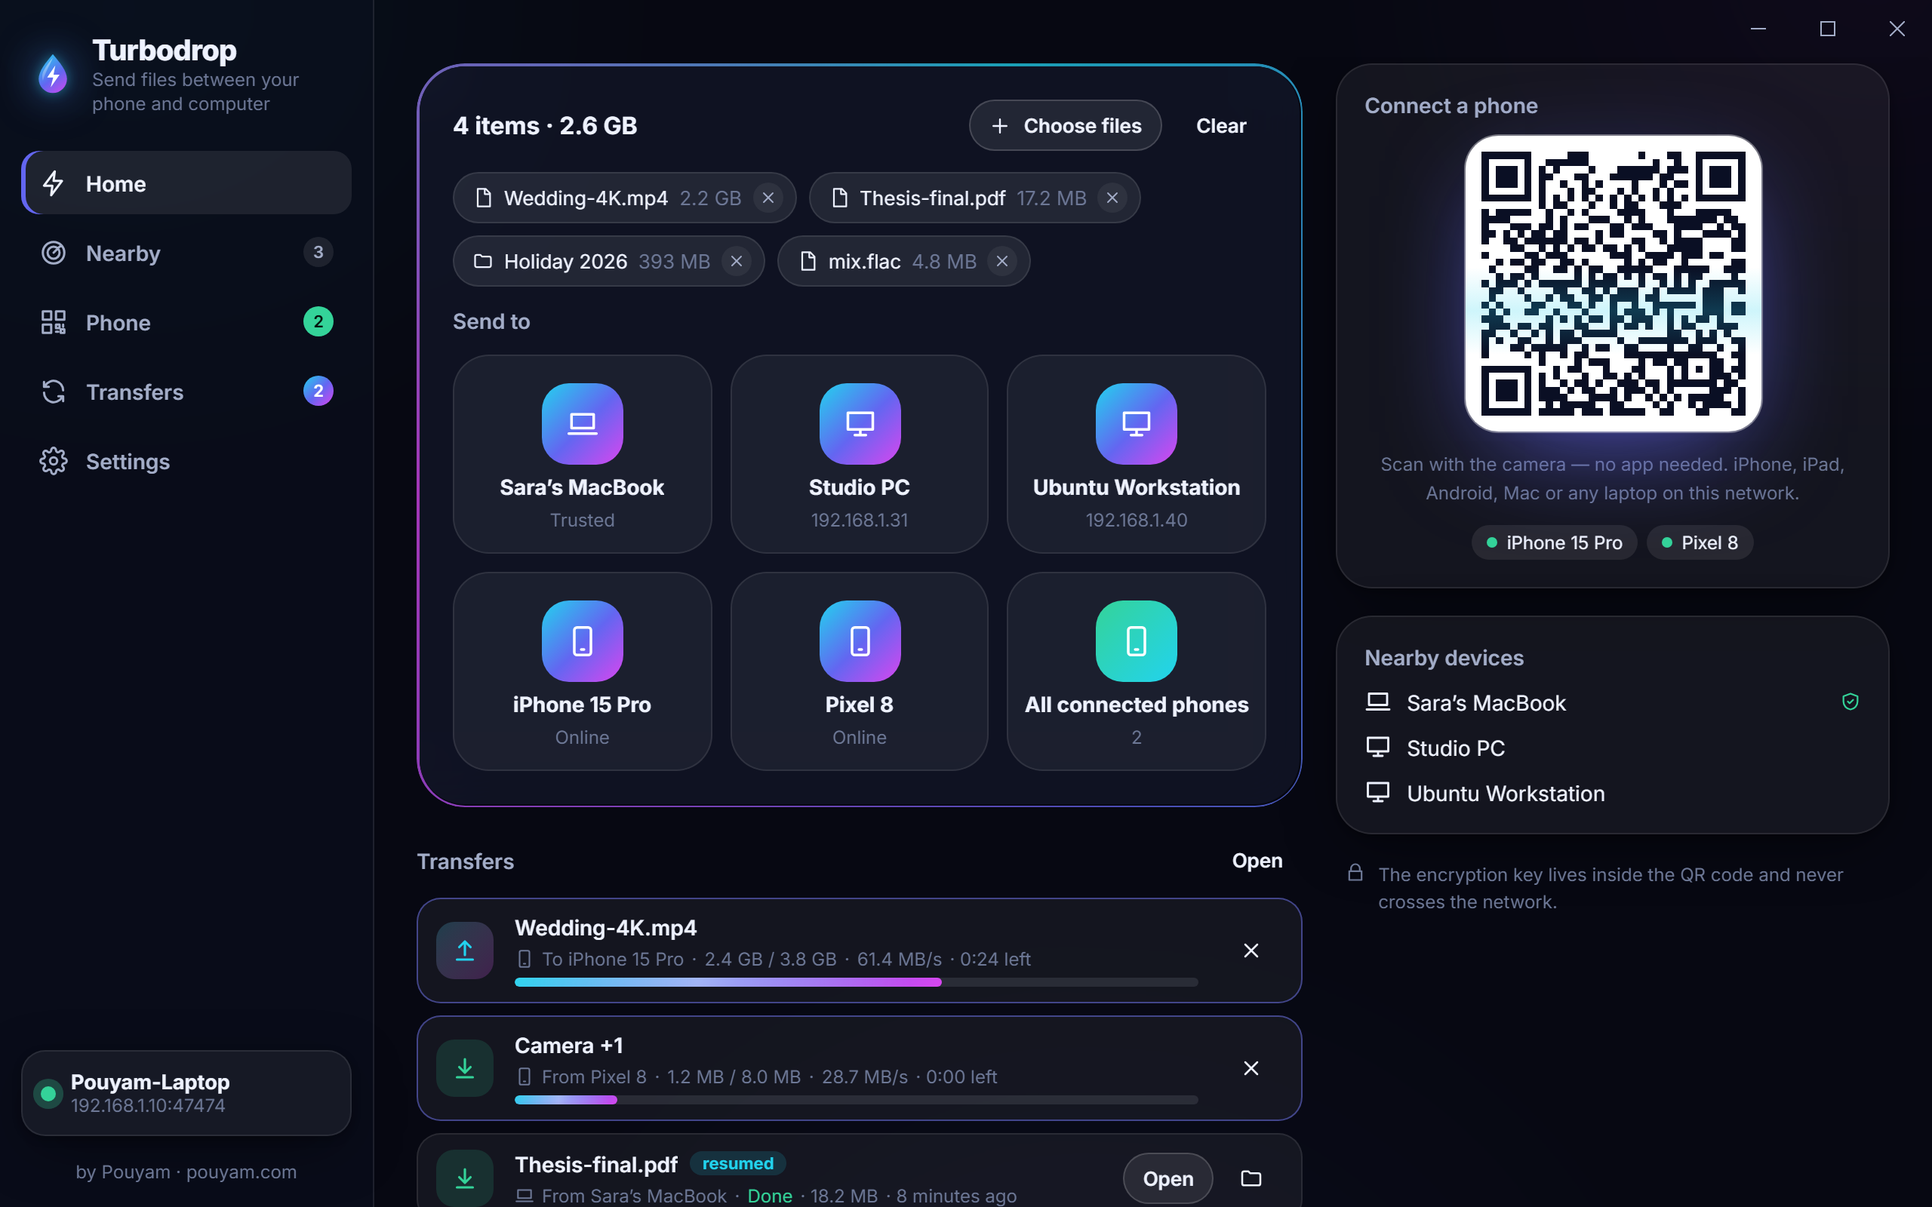
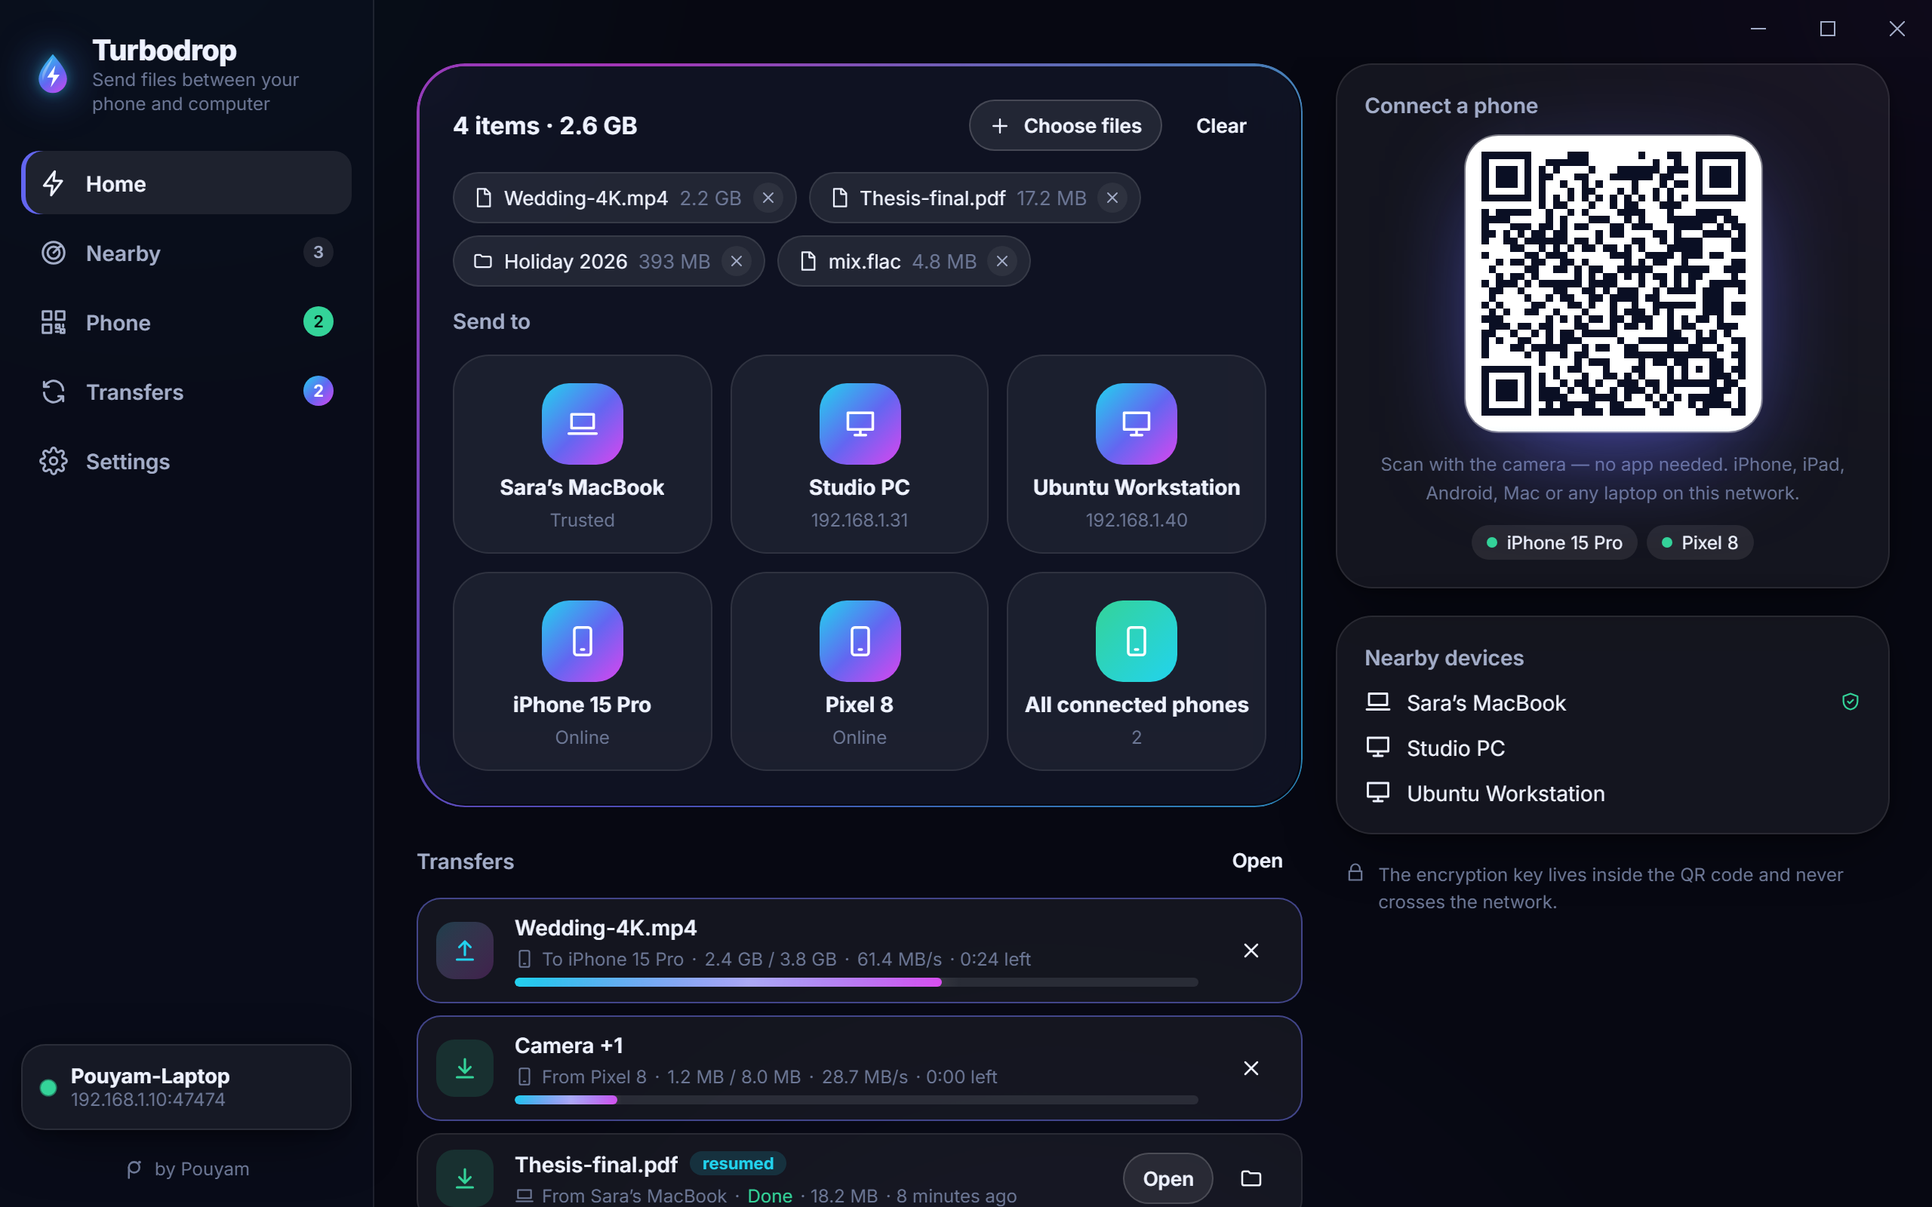
0.1.1: quiet Pouyam credit with a new Pouyam mark (#5)
* Subtle Pouyam credit: new Pouyam mark in the app, phone page, website and README

* Release 0.1.1: version bump, changelog, refreshed screenshots

---------

Changed region(s): [[0.75, 0.2188, 0.9375, 0.2812], [0.0, 0.875, 0.125, 0.9375], [0.0625, 0.9688, 0.125, 1.0]]

diff --git a/shared/i18n/more.ts b/shared/i18n/more.ts
@@ -7,6 +7,8 @@ export const more: Record<string, Dict> = {
     'app.name': 'Turbodrop',
     'app.tagline': 'انقل الملفات بين هاتفك وحاسوبك',
     'app.by': 'من تطوير Pouyam',
+    'brand.about': 'طوّر فريق Pouyam تطبيق Turbodrop، وهو الفريق الذي يقف وراء pouyam.com: عالم اجتماعي من الألعاب والأخبار وصنّاع المحتوى.',
+    'brand.visit': 'زُر Pouyam',
 
     'conn.connecting': 'جارٍ الاتصال…',
     'conn.connected': 'متصل بـ {name}',
@@ -172,6 +174,8 @@ export const more: Record<string, Dict> = {
     'app.name': 'Turbodrop',
     'app.tagline': 'Telefon ile bilgisayar arasında dosya gönderin',
     'app.by': 'Pouyam tarafından',
+    'brand.about': 'Turbodrop, pouyam.com’un arkasındaki ekip olan Pouyam tarafından geliştirildi: oyunlar, haberler ve içerik üreticileriyle dolu sosyal bir dünya.',
+    'brand.visit': 'Pouyam’ı ziyaret et',
 
     'conn.connecting': 'Bağlanıyor…',
     'conn.connected': '{name} cihazına bağlandı',
@@ -337,6 +341,8 @@ export const more: Record<string, Dict> = {
     'app.name': 'Turbodrop',
     'app.tagline': 'Envía archivos entre tu teléfono y tu computadora',
     'app.by': 'de Pouyam',
+    'brand.about': 'Turbodrop lo hace Pouyam, el equipo detrás de pouyam.com: un mundo social de juegos, noticias y creadores.',
+    'brand.visit': 'Visitar Pouyam',
 
     'conn.connecting': 'Conectando…',
     'conn.connected': 'Conectado a {name}',
@@ -502,6 +508,8 @@ export const more: Record<string, Dict> = {
     'app.name': 'Turbodrop',
     'app.tagline': 'Envoyez des fichiers entre votre téléphone et votre ordinateur',
     'app.by': 'par Pouyam',
+    'brand.about': 'Turbodrop est créé par Pouyam, l’équipe derrière pouyam.com : un univers social de jeux, d’actualités et de créateurs.',
+    'brand.visit': 'Découvrir Pouyam',
 
     'conn.connecting': 'Connexion…',
     'conn.connected': 'Connecté à {name}',
@@ -667,6 +675,8 @@ export const more: Record<string, Dict> = {
     'app.name': 'Turbodrop',
     'app.tagline': 'Dateien zwischen Handy und Computer senden',
     'app.by': 'von Pouyam',
+    'brand.about': 'Turbodrop wird von Pouyam entwickelt, dem Team hinter pouyam.com – einer sozialen Welt aus Spielen, News und Creators.',
+    'brand.visit': 'Pouyam besuchen',
 
     'conn.connecting': 'Verbinden…',
     'conn.connected': 'Verbunden mit {name}',
@@ -832,6 +842,8 @@ export const more: Record<string, Dict> = {
     'app.name': 'Turbodrop',
     'app.tagline': 'Envie arquivos entre o celular e o computador',
     'app.by': 'por Pouyam',
+    'brand.about': 'O Turbodrop é feito pela Pouyam, a equipe por trás do pouyam.com: um mundo social de jogos, notícias e criadores.',
+    'brand.visit': 'Conhecer a Pouyam',
 
     'conn.connecting': 'Conectando…',
     'conn.connected': 'Conectado a {name}',
@@ -997,6 +1009,8 @@ export const more: Record<string, Dict> = {
     'app.name': 'Turbodrop',
     'app.tagline': 'Передача файлов между телефоном и компьютером',
     'app.by': 'от Pouyam',
+    'brand.about': 'Turbodrop создаёт Pouyam — команда pouyam.com, социального мира игр, новостей и авторов.',
+    'brand.visit': 'Перейти на Pouyam',
 
     'conn.connecting': 'Подключение…',
     'conn.connected': 'Подключено к {name}',
@@ -1162,6 +1176,8 @@ export const more: Record<string, Dict> = {
     'app.name': 'Turbodrop',
     'app.tagline': 'फ़ोन और कंप्यूटर के बीच फ़ाइलें भेजें',
     'app.by': 'Pouyam द्वारा',
+    'brand.about': 'Turbodrop को Pouyam ने बनाया है — pouyam.com के पीछे की टीम, गेम, ख़बरों और क्रिएटर्स की एक सोशल दुनिया।',
+    'brand.visit': 'Pouyam देखें',
 
     'conn.connecting': 'कनेक्ट हो रहा है…',
     'conn.connected': '{name} से कनेक्टेड',
@@ -1327,6 +1343,8 @@ export const more: Record<string, Dict> = {
     'app.name': 'Turbodrop',
     'app.tagline': '在手机和电脑之间互传文件',
     'app.by': 'Pouyam 出品',
+    'brand.about': 'Turbodrop 由 Pouyam 打造——pouyam.com 背后的团队，一个汇聚游戏、新闻与创作者的社交世界。',
+    'brand.visit': '访问 Pouyam',
 
     'conn.connecting': '正在连接…',
     'conn.connected': '已连接到 {name}',
@@ -1492,6 +1510,8 @@ export const more: Record<string, Dict> = {
     'app.name': 'Turbodrop',
     'app.tagline': 'スマホとパソコンの間でファイルを送る',
     'app.by': 'Pouyam が開発',
+    'brand.about': 'Turbodrop は pouyam.com を運営する Pouyam チームが開発しています。ゲーム、ニュース、クリエイターが集まるソーシャルな世界です。',
+    'brand.visit': 'Pouyam を見る',
 
     'conn.connecting': '接続中…',
     'conn.connected': '{name} に接続しました',

diff --git a/scripts/shots/tauri-mock.js b/scripts/shots/tauri-mock.js
@@ -9,9 +9,9 @@
   const fa = lang === 'fa';
 
   const peers = [
-    { device: { id: 'mac', name: fa ? 'مکبوکِ سارا' : 'Sara’s MacBook', platform: 'macos', version: '0.1.0', port: 47474, publicKey: 'k1', fingerprint: '4A12-5D65-BC56-B6E4' }, address: '192.168.1.24', lastSeen: now, source: 'lan', trusted: true, verification: '🌵 🍄 🦉 🎧', keyChanged: false },
-    { device: { id: 'pc', name: fa ? 'کامپیوتر اتاق کار' : 'Studio PC', platform: 'windows', version: '0.1.0', port: 47474, publicKey: 'k2', fingerprint: '9C01-77AE-11B2-0F3D' }, address: '192.168.1.31', lastSeen: now, source: 'lan', trusted: false, verification: '🚀 🍉 🐳 ⚡', keyChanged: false },
-    { device: { id: 'linux', name: 'Ubuntu Workstation', platform: 'linux', version: '0.1.0', port: 47474, publicKey: 'k3', fingerprint: '2B7C-0A44-9E10-CC51' }, address: '192.168.1.40', lastSeen: now, source: 'lan', trusted: false, verification: '🦊 🌈 🎯 🍋', keyChanged: false },
+    { device: { id: 'mac', name: fa ? 'مکبوکِ سارا' : 'Sara’s MacBook', platform: 'macos', version: '0.1.1', port: 47474, publicKey: 'k1', fingerprint: '4A12-5D65-BC56-B6E4' }, address: '192.168.1.24', lastSeen: now, source: 'lan', trusted: true, verification: '🌵 🍄 🦉 🎧', keyChanged: false },
+    { device: { id: 'pc', name: fa ? 'کامپیوتر اتاق کار' : 'Studio PC', platform: 'windows', version: '0.1.1', port: 47474, publicKey: 'k2', fingerprint: '9C01-77AE-11B2-0F3D' }, address: '192.168.1.31', lastSeen: now, source: 'lan', trusted: false, verification: '🚀 🍉 🐳 ⚡', keyChanged: false },
+    { device: { id: 'linux', name: 'Ubuntu Workstation', platform: 'linux', version: '0.1.1', port: 47474, publicKey: 'k3', fingerprint: '2B7C-0A44-9E10-CC51' }, address: '192.168.1.40', lastSeen: now, source: 'lan', trusted: false, verification: '🦊 🌈 🎯 🍋', keyChanged: false },
   ];
   const clients = [
     { id: 'iphone', name: 'iPhone 15 Pro', platform: 'ios', online: true, lastSeen: now },
@@ -28,7 +28,7 @@
     { id: 't6', direction: 'out', kind: 'device', peerId: 'linux', peerName: 'Ubuntu Workstation', peerPlatform: 'linux', status: 'done', files: [f('e', 'turbodrop-src.zip', 212 * MB, 212 * MB, 'done')], totalBytes: 212 * MB, doneBytes: 212 * MB, speed: 0, startedAt: now - 26 * 3600e3, finishedAt: now - 26 * 3600e3 },
   ];
   const snapshot = {
-    info: { id: 'me', name: fa ? 'لپتاپ پویام' : 'Pouyam-Laptop', platform: 'windows', version: '0.1.0', port: 47474, publicKey: 'me', fingerprint: '7E3A-91C4-55D0-A2F8' },
+    info: { id: 'me', name: fa ? 'لپتاپ پویام' : 'Pouyam-Laptop', platform: 'windows', version: '0.1.1', port: 47474, publicKey: 'me', fingerprint: '7E3A-91C4-55D0-A2F8' },
     settings: { deviceName: fa ? 'لپتاپ پویام' : 'Pouyam-Laptop', downloadDir: 'C:\\Users\\you\\Downloads\\Turbodrop', requireApproval: true, askBrowsers: false },
     app: { theme, lang, accent: q.get('accent') || 'aurora', autostart: true, tray: true, contextMenu: true, notifications: true, keepAwake: true },
     invite: { port: 47474, urls: [{ label: 'Wi-Fi', ip: '192.168.1.10', url: 'http://192.168.1.10:47474/#Qm3x9KpLw2Ta.7Hk2Jq9VrX4bN8sYc1LpE0wZ5uF3dGiAoT6mRyKxQe' }, { label: 'Ethernet', ip: '10.0.0.5', url: 'http://10.0.0.5:47474/#Qm3x9KpLw2Ta.7Hk2Jq9VrX4bN8sYc1LpE0wZ5uF3dGiAoT6mRyKxQe' }] },

diff --git a/apps/desktop/src/views/Settings.svelte b/apps/desktop/src/views/Settings.svelte
@@ -2,6 +2,7 @@
   import { open } from '@tauri-apps/plugin-dialog';
   import { LANGUAGES, type Lang } from '../../../../shared/i18n';
   import Icon from '../../../../shared/ui/Icon.svelte';
+  import PouyamMark from '../../../../shared/ui/PouyamMark.svelte';
   import { t } from '../lib/i18n';
   import { ACCENTS, store, type AppSettings, type Settings } from '../lib/store.svelte';
 
@@ -112,7 +113,11 @@
       <div class="ab"><b class="grad-text">Turbodrop</b><span class="tiny">{t('set.version', { v: store.info?.version ?? '' })}</span></div>
       <div class="links">
         <button class="btn btn-sm" onclick={() => store.openUrl('https://github.com/pouyamsmartcity/turbodrop')}><Icon name="github" size={15} />{t('set.github')}</button>
-        <button class="btn btn-sm btn-ghost" onclick={() => store.openUrl('https://www.pouyam.com')}><Icon name="star" size={15} />{t('app.by')}</button>
+      </div>
+      <div class="maker">
+        <PouyamMark size={30} color="#c9b27c" />
+        <p>{t('brand.about')}</p>
+        <button class="btn btn-sm" onclick={() => store.openUrl('https://www.pouyam.com/?utm_source=turbodrop&utm_medium=app-about')}>{t('brand.visit')}</button>
       </div>
     </section>
   </div>
@@ -285,6 +290,23 @@
   .links {
     display: flex;
     gap: 8px;
+  }
+  .maker {
+    display: flex;
+    align-items: center;
+    gap: 14px;
+    margin-top: 4px;
+    padding: 14px;
+    border-radius: var(--r);
+    border: 1px solid color-mix(in oklab, #c9b27c 28%, var(--border));
+    background: color-mix(in oklab, #c9b27c 6%, transparent);
+  }
+  .maker p {
+    flex: 1;
+    margin: 0;
+    font-size: 13px;
+    line-height: 1.6;
+    color: var(--text-2);
   }
   @media (max-width: 1000px) {
     .cols {

diff --git a/web/src/App.svelte b/web/src/App.svelte
@@ -3,6 +3,7 @@
   import { LANGUAGES, type Lang } from '../../shared/i18n';
   import Icon from '../../shared/ui/Icon.svelte';
   import Logo from '../../shared/ui/Logo.svelte';
+  import PouyamMark from '../../shared/ui/PouyamMark.svelte';
   import ConnectScreen from './components/ConnectScreen.svelte';
   import IncomingCard from './components/IncomingCard.svelte';
   import OutgoingCard from './components/OutgoingCard.svelte';
@@ -172,7 +173,8 @@
           <button class="link" onclick={() => ((nameDraft = app.name), (editingName = true))}>{app.name}</button>
         {/if}
       </div>
-      <div class="tiny secure"><Icon name="shield" size={14} /> {t('footer.secure')} · <a href="https://www.pouyam.com" target="_blank" rel="noopener">{t('app.by')}</a></div>
+      <div class="tiny secure"><Icon name="shield" size={14} /> {t('footer.secure')}</div>
+      <a class="maker" href="https://www.pouyam.com/?utm_source=turbodrop&utm_medium=phone" target="_blank" rel="noopener"><PouyamMark size={14} /><span>{t('app.by')}</span></a>
     </footer>
   {/if}
 </div>
@@ -406,8 +408,18 @@
     align-items: center;
     gap: 6px;
   }
-  .secure a {
-    color: var(--text-2);
+  .maker {
+    display: inline-flex;
+    align-items: center;
+    gap: 6px;
+    font-size: 12px;
+    color: var(--text-3);
+    text-decoration: none;
+    transition: color 0.25s;
+  }
+  .maker:hover,
+  .maker:active {
+    color: #c9b27c;
   }
   .dropzone {
     position: fixed;

diff --git a/apps/desktop/src/App.svelte b/apps/desktop/src/App.svelte
@@ -5,6 +5,7 @@
   import { onMount } from 'svelte';
   import Icon, { type IconName } from '../../../shared/ui/Icon.svelte';
   import Logo from '../../../shared/ui/Logo.svelte';
+  import PouyamMark from '../../../shared/ui/PouyamMark.svelte';
   import RequestModal from './components/RequestModal.svelte';
   import Toasts from './components/Toasts.svelte';
   import { num, t } from './lib/i18n';
@@ -107,8 +108,8 @@
         <span class="tiny ltr">{store.invite[0]?.ip ?? ''}{store.info ? `:${store.info.port}` : ''}</span>
       </div>
     </div>
-    <button class="by" onclick={() => store.openUrl('https://www.pouyam.com')}>
-      {t('app.by')} · pouyam.com
+    <button class="by" title="pouyam.com" onclick={() => store.openUrl('https://www.pouyam.com/?utm_source=turbodrop&utm_medium=app')}>
+      <PouyamMark size={14} /><span>{t('app.by')}</span>
     </button>
   </aside>
 
@@ -277,14 +278,19 @@
     }
   }
   .by {
+    display: inline-flex;
+    align-items: center;
+    justify-content: center;
+    gap: 7px;
     background: none;
     border: 0;
     color: var(--text-3);
     font-size: 12px;
-    padding: 2px;
+    padding: 4px;
+    transition: color 0.25s;
   }
   .by:hover {
-    color: var(--text);
+    color: #c9b27c;
   }
   main {
     display: flex;

diff --git a/site/style.css b/site/style.css
@@ -510,3 +510,41 @@ footer {
   padding: 0 16px;
   font-size: 14px;
 }
+
+.maker {
+  display: inline-flex;
+  align-items: center;
+  gap: 7px;
+  font-size: 13px;
+  font-weight: 500;
+  color: var(--text-2);
+  text-decoration: none;
+  transition: color 0.25s;
+}
+.maker:hover {
+  color: #c9b27c;
+}
+.maker .pm {
+  color: #c9b27c;
+  flex: none;
+}
+footer .pouyam {
+  margin: 0 auto 14px;
+  max-width: 560px;
+}
+footer .pouyam .maker {
+  font-size: 14px;
+  line-height: 1.6;
+  align-items: flex-start;
+  text-align: start;
+}
+footer .pouyam .pm {
+  width: 22px;
+  height: 22px;
+  margin-top: 1px;
+}
+@media (max-width: 900px) {
+  .top .maker span {
+    display: none;
+  }
+}

diff --git a/shared/ui/PouyamMark.svelte b/shared/ui/PouyamMark.svelte
@@ -1,0 +1,27 @@
+<script lang="ts">
+  // The Pouyam mark: a "p" with a satellite — small, quiet, gold on hover where the parent wants it.
+  let { size = 16, color = 'currentColor' }: { size?: number; color?: string } = $props();
+</script>
+
+<svg
+  width={size}
+  height={size}
+  viewBox="0 0 32 32"
+  fill="none"
+  stroke={color}
+  stroke-width={size > 20 ? 2.6 : 2.9}
+  stroke-linecap="round"
+  aria-hidden="true"
+>
+  <path d="M10 13v16" />
+  <circle cx="18" cy="13" r="8" />
+  <circle cx="26.2" cy="5.2" r="2.2" fill={color} stroke="none" />
+</svg>
+
+<style>
+  svg {
+    display: inline-block;
+    flex: none;
+    vertical-align: middle;
+  }
+</style>

diff --git a/shared/i18n/fa.ts b/shared/i18n/fa.ts
@@ -5,6 +5,8 @@ export const fa: Dict = {
   'app.name': 'توربودراپ',
   'app.tagline': 'جابهجایی فایل بین گوشی و کامپیوتر',
   'app.by': 'ساخت پویام',
+  'brand.about': 'توربودراپ را تیم پویام ساخته؛ همان تیمِ pouyam.com، دنیایی از بازی، خبر و شبکهٔ اجتماعی.',
+  'brand.visit': 'سری به پویام بزنید',
 
   'conn.connecting': 'در حال اتصال…',
   'conn.connected': 'وصل به {name}',

diff --git a/shared/i18n/en.ts b/shared/i18n/en.ts
@@ -3,6 +3,8 @@ export const en = {
   'app.name': 'Turbodrop',
   'app.tagline': 'Send files between your phone and computer',
   'app.by': 'by Pouyam',
+  'brand.about': 'Turbodrop is made by Pouyam, the team behind pouyam.com — a social world of games, news and creators.',
+  'brand.visit': 'Visit Pouyam',
 
   'conn.connecting': 'Connecting…',
   'conn.connected': 'Connected to {name}',

diff --git a/CHANGELOG.md b/CHANGELOG.md
@@ -3,6 +3,20 @@
 All notable changes to this project are documented here. The format follows
 [Keep a Changelog](https://keepachangelog.com/en/1.1.0/) and the project uses [Semantic Versioning](https://semver.org/).
 
+## [0.1.1] — 2026-11-02
+
+### Added
+
+- A quiet Pouyam credit with the new Pouyam mark: sidebar and About in the desktop app, the phone page footer, the website and the README.
+- Website: download page with the code signing policy, and a privacy policy.
+- Desktop: tray menu item to show the phone QR code; Ctrl+V sends the clipboard text.
+- Phones: home-screen icon; the folder button is hidden where mobile browsers can't pick folders.
+
+### Fixed
+
+- Desktop: no notification every time a phone reconnects.
+- Multi-file titles read “IMG_0001.MOV +1”; numbers stay readable in right-to-left layouts.
+
 ## [0.1.0] — 2026-11-02
 
 First public release.
@@ -22,4 +36,5 @@ First public release.
 - Tests: Rust unit and end-to-end tests, browser unit tests with crypto vectors shared with Rust, Playwright end-to-end
   tests on WebKit (iPhone), Android Chrome and desktop Chrome against the real binary.
 
+[0.1.1]: https://github.com/pouyamsmartcity/turbodrop/releases/tag/v0.1.1
 [0.1.0]: https://github.com/pouyamsmartcity/turbodrop/releases/tag/v0.1.0

diff --git a/README.md b/README.md
@@ -165,10 +165,12 @@ Windows builds are being set up for free code signing provided by [SignPath.io](
 
 ## License
 
-[MIT](LICENSE) © 2026 [Pouyam](https://www.pouyam.com).
+[MIT](LICENSE) © 2026 [Pouyam](https://www.pouyam.com/?utm_source=turbodrop&utm_medium=github).
 
 <div align="center">
-<sub>Made with ❤ by <a href="https://www.pouyam.com">Pouyam</a> · built with Rust, Tauri and Svelte</sub>
+<a href="https://www.pouyam.com/?utm_source=turbodrop&utm_medium=github"><img src="docs/pouyam-mark.svg" width="28" alt="Pouyam" /></a>
+<br/>
+<sub>Made by <a href="https://www.pouyam.com/?utm_source=turbodrop&utm_medium=github">Pouyam</a> — the team behind pouyam.com, a social world of games, news and creators · built with Rust, Tauri and Svelte</sub>
 <br/>
 <sub>AirDrop is a trademark of Apple Inc. Turbodrop is an independent project, not affiliated with Apple.</sub>
 </div>

diff --git a/README.fa.md b/README.fa.md
@@ -138,7 +138,9 @@ npm run desktop:build
 [MIT](LICENSE) © ۲۰۲۶ [پویام](https://www.pouyam.com)
 
 <div align="center">
-<sub>ساختهشده با ❤ توسط <a href="https://www.pouyam.com">پویام</a> · Rust، Tauri و Svelte</sub>
+<a href="https://www.pouyam.com/?utm_source=turbodrop&utm_medium=github-fa"><img src="docs/pouyam-mark.svg" width="28" alt="پویام" /></a>
+<br/>
+<sub>ساخت <a href="https://www.pouyam.com/?utm_source=turbodrop&utm_medium=github-fa">پویام</a>؛ همان تیمِ pouyam.com، دنیایی از بازی، خبر و شبکهٔ اجتماعی · Rust، Tauri و Svelte</sub>
 <br/>
 <sub>AirDrop علامت تجاری Apple Inc. است. توربودراپ پروژهای مستقل است و هیچ ارتباطی با اپل ندارد.</sub>
 </div>
